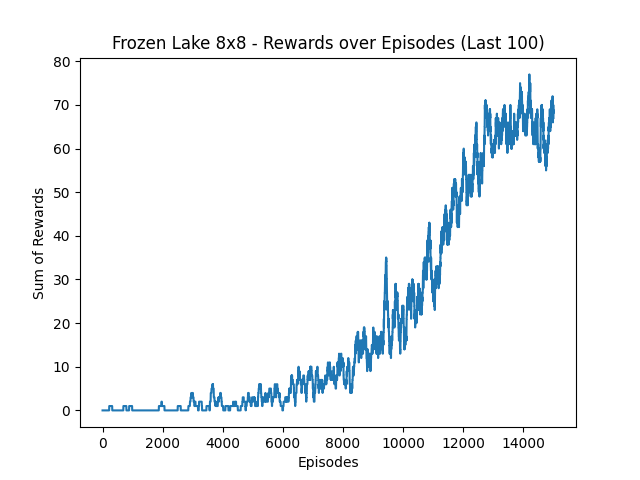
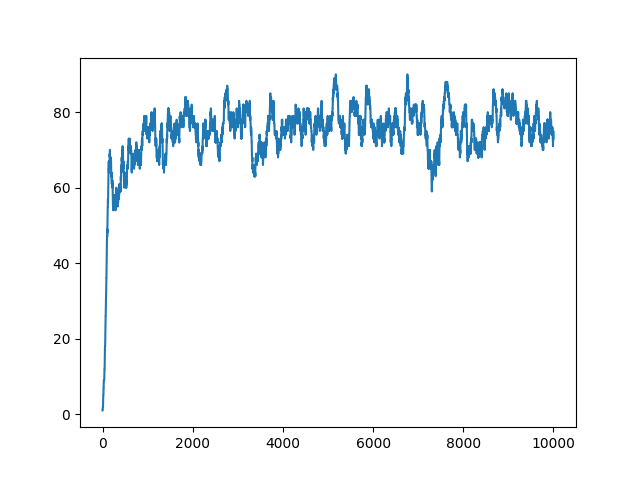
stash

diff --git a/src/part1/mountain_car.py b/src/part1/mountain_car.py
@@ -3,8 +3,8 @@
 import argparse
 import gymnasium as gym
 import numpy as np
-import matplotlib.pyplot as plt
 import pickle
+import os
 
 def run(episodes, is_training=True, render=False):
     if is_training:
@@ -21,9 +21,14 @@ def run(episodes, is_training=True, render=False):
     if(is_training):
         q = np.zeros((len(pos_space), len(vel_space), env.action_space.n)) # init a 20x20x3 array
     else:
-        f = open('mountain_car.pkl', 'rb')
-        q = pickle.load(f)
-        f.close()
+        model_path = os.path.join(os.path.dirname(__file__), 'mountain_car.pkl')
+        if os.path.exists(model_path):
+            f = open(model_path, 'rb')
+            q = pickle.load(f)
+            f.close()
+        else:
+            print("No trained model found! Starting with random Q-table.")
+            q = np.zeros((len(pos_space), len(vel_space), env.action_space.n))
 
     learning_rate_a = 0.9 # alpha or learning rate
     discount_factor_g = 0.9 # gamma or discount factor.
@@ -84,10 +89,8 @@ def run(episodes, is_training=True, render=False):
     mean_rewards = np.zeros(episodes)
     for t in range(episodes):
         mean_rewards[t] = np.mean(rewards_per_episode[max(0, t-100):(t+1)])
-    plt.xlabel('Episodes')
-    plt.ylabel('Mean Rewards (moving avg of 100 Episodes)')
-    plt.plot(mean_rewards)
-    plt.savefig(f'mountain_car.png')
+    
+    print(f"Final Mean Reward (Last 100 episodes): {mean_rewards[-1]:.2f}")
 
 if __name__ == '__main__':
     parser = argparse.ArgumentParser(description="Car Agent Runner")

diff --git a/src/part2/frozen_lake.py b/src/part2/frozen_lake.py
@@ -1,8 +1,9 @@
 import gymnasium as gym
 import numpy as np
-import matplotlib.pyplot as plt
 import pickle
 import argparse
+import os
+import matplotlib.pyplot as plt
 
 class DistanceRewardWrapper(gym.Wrapper):
     def __init__(self, env, gamma=0.95):
@@ -64,6 +65,21 @@ def run(episodes, is_training=True, render=False):
         q = np.zeros((env.observation_space.n, env.action_space.n)) # init a 64 x 4 array
         epsilon = 1
     else:
+        model_path = os.path.join(os.path.dirname(__file__), 'frozen_lake8x8.pkl')
+        if os.path.exists(model_path):
+            f = open(model_path, 'rb')
+            q = pickle.load(f)
+            f.close()
+        else:
+            print("No trained model found! Starting with random Q-table.")
+            q = np.zeros((env.observation_space.n, env.action_space.n))
+
+
+    learning_rate_a = 0.035   # Learning rate
+    discount_factor_g = 0.995 # Discount factor
+    epsilon = 1             
+    rng = np.random.default_rng()
+    if (os.path.join(os.path.dirname(__file__), 'frozen_lake8x8.pkl')):
         f = open('frozen_lake8x8.pkl', 'rb')
         q = pickle.load(f)
         epsilon = 0.04
